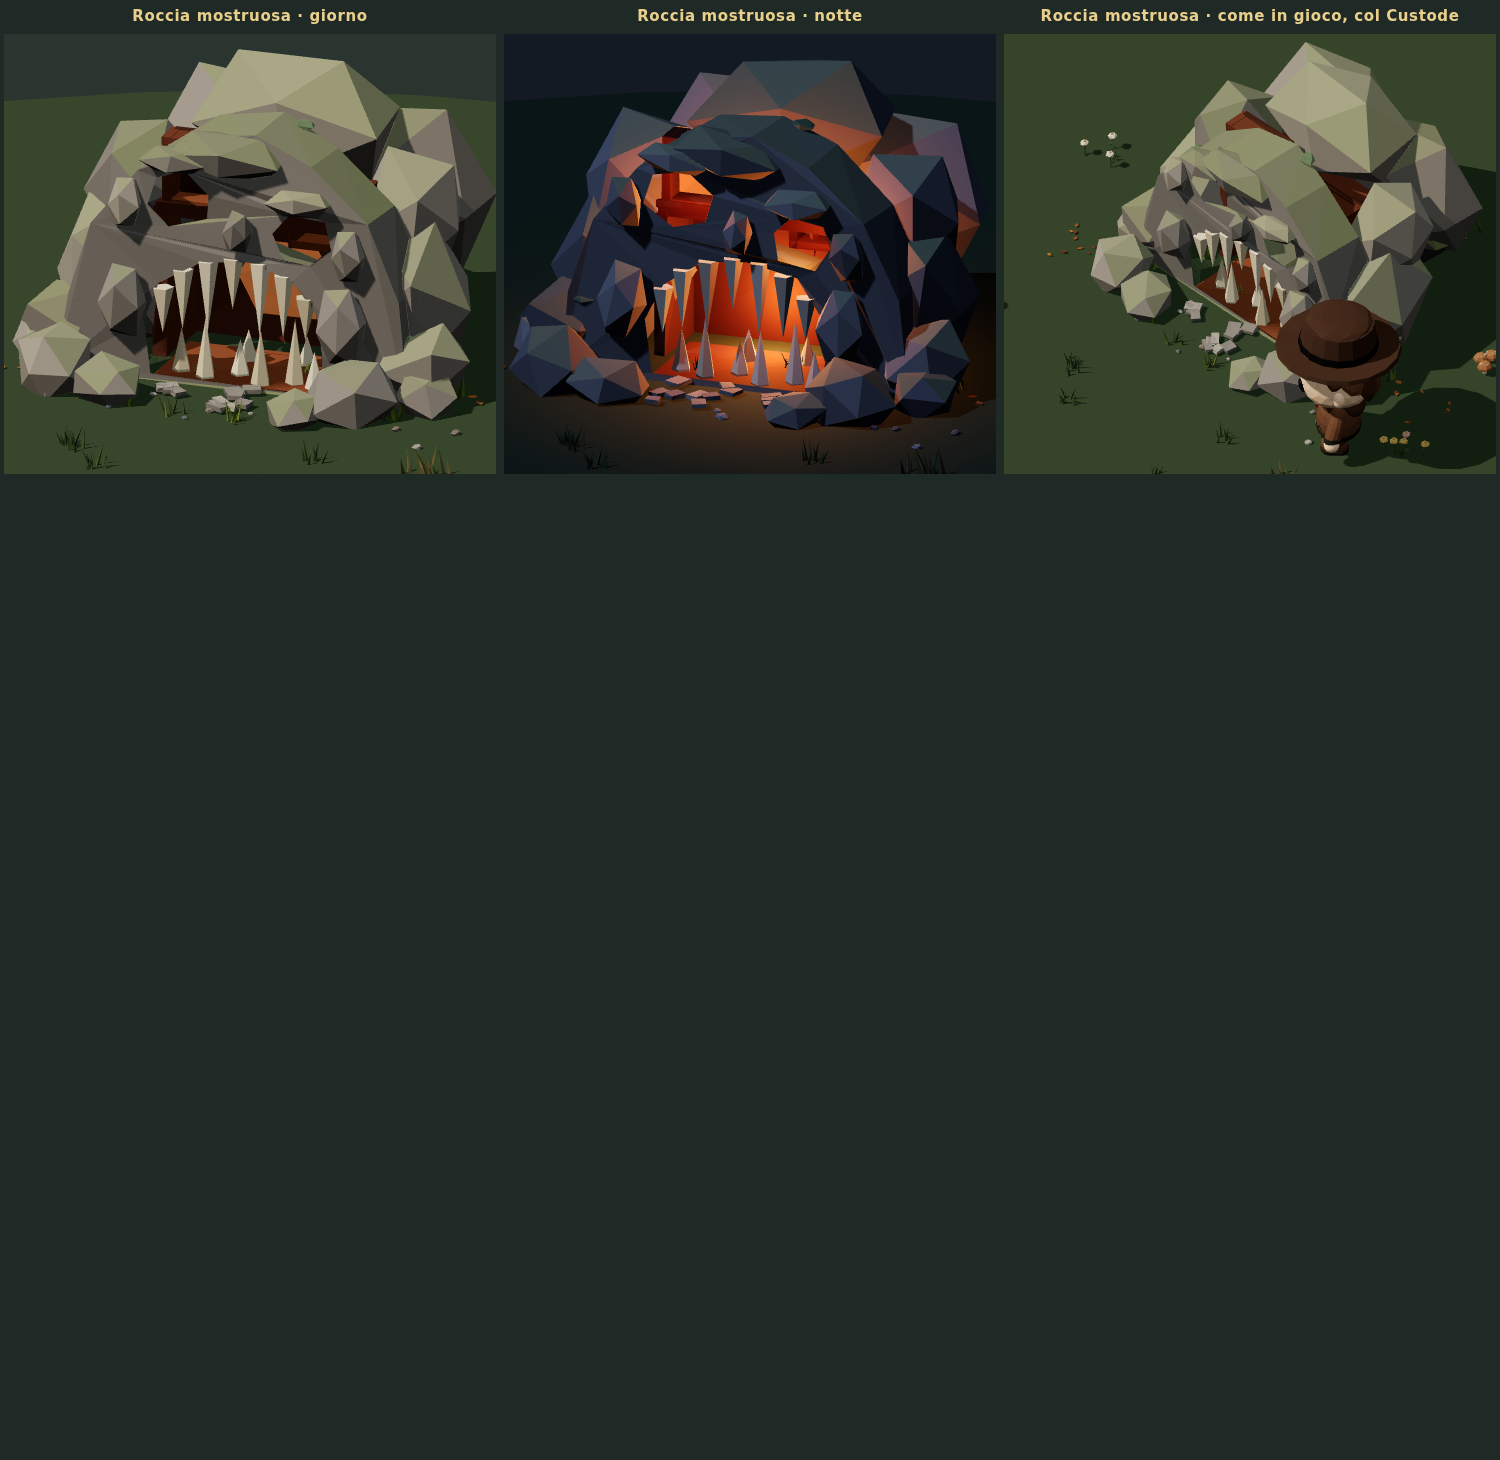
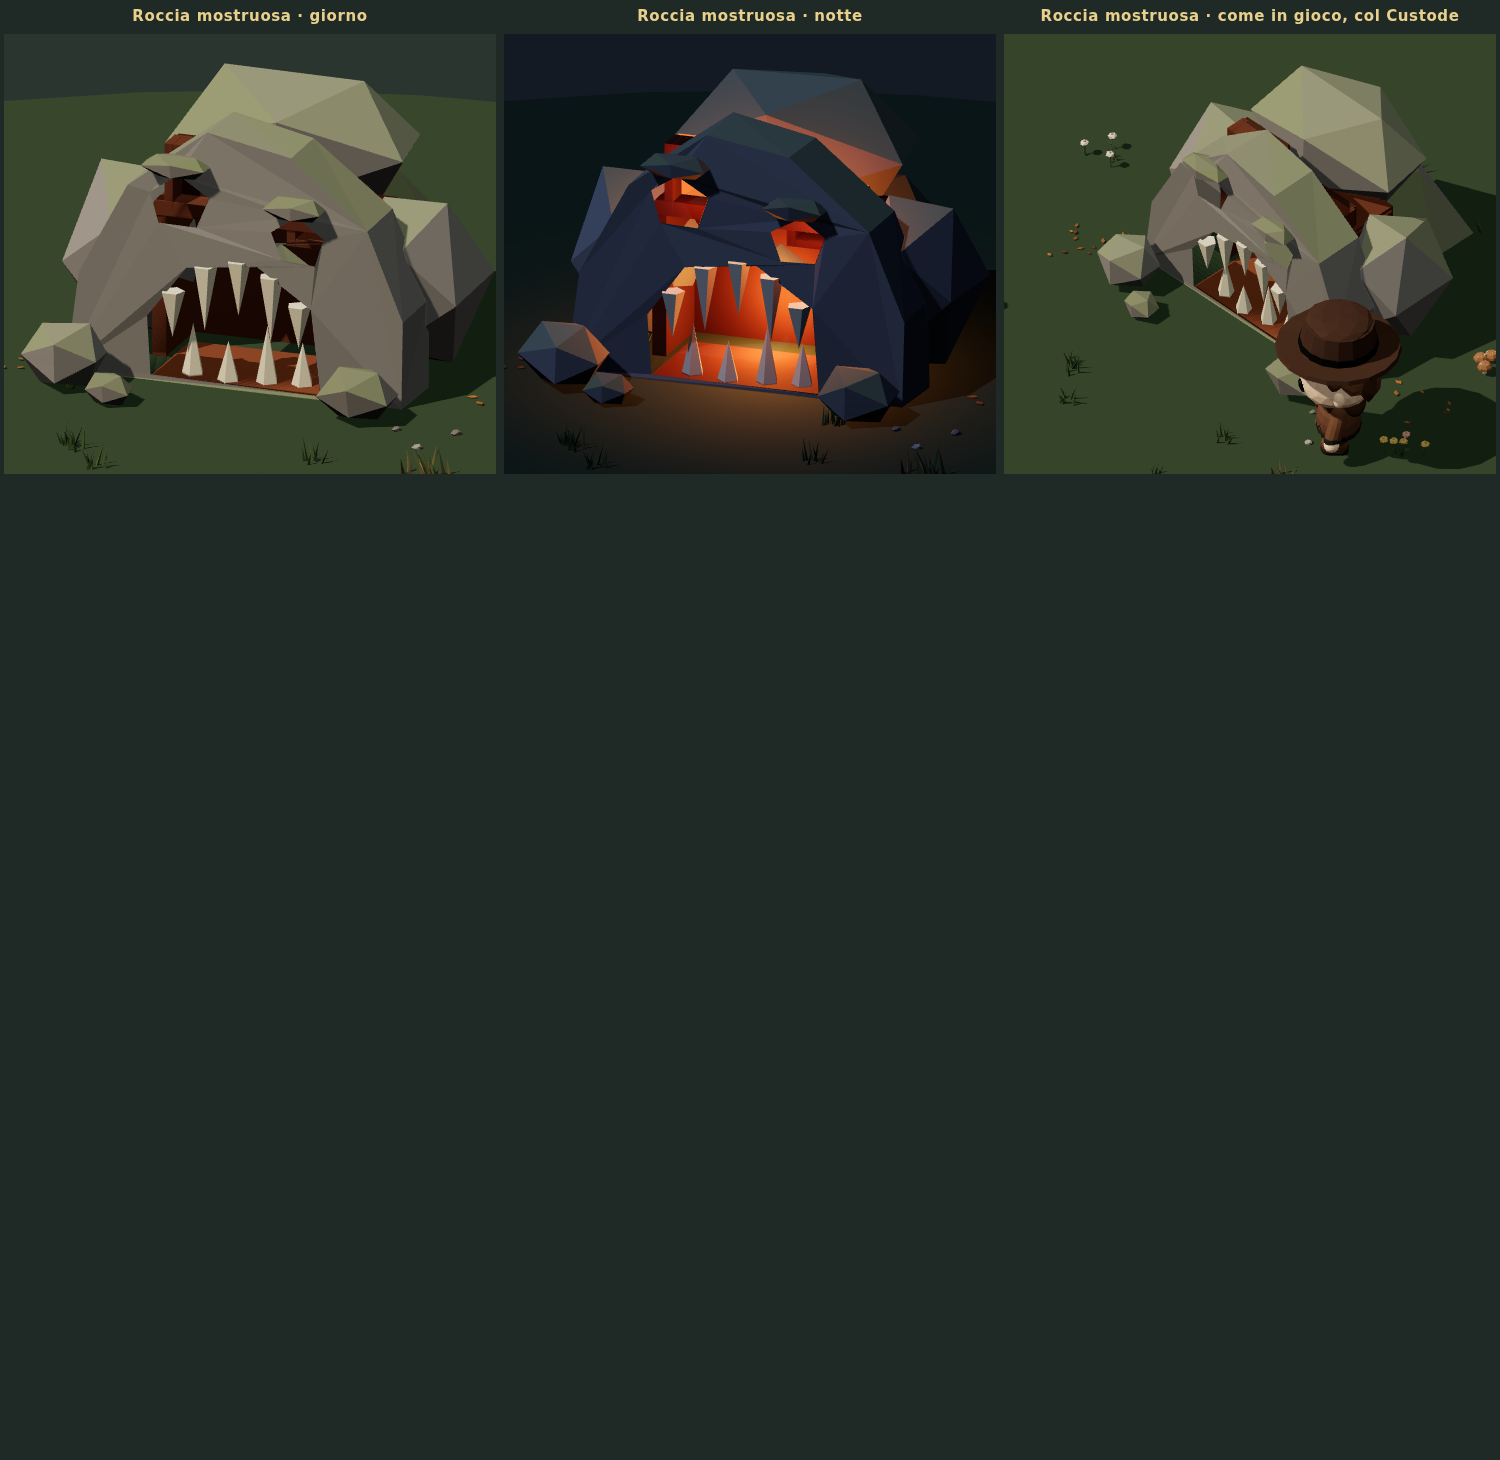
Anteprima: roccia mostruosa semplificata
Pochi pezzi grandi: facciata a cupola con la bocca e le due orbite
scavate, quattro blocchi dietro, due arcate, cinque zanne in alto e
quattro in basso, tre massi davanti, poca erba.

Claude-Session: https://claude.ai/code/session_01U6u5RojYrwYjZd8sSRU7em

Changed region(s): [[0.0, 0.0308, 0.6747, 0.3082], [0.7053, 0.0308, 1.0, 0.2774], [0.92, 0.2466, 0.9813, 0.2774]]

diff --git a/Prototype-3d/src/render/lowpoly/newItems2.ts b/Prototype-3d/src/render/lowpoly/newItems2.ts
@@ -475,91 +475,61 @@ export function witchAppleLP(lit = true): LPModel {
 }
 
 /**
- * Roccia mostruosa (3×2), sul riferimento: una cupola tozza di grossi
- * blocchi di roccia sfaccettati, con due orbite vere (cave, calde dentro,
- * asimmetriche) e una grande bocca-caverna: zanne che scendono dall'alto,
- * stalagmiti che salgono dal pavimento, fondo color brace. Davanti lastre e
- * massi crollati; sopra muschio ed erba. Di notte occhi e gola si accendono.
+ * Roccia mostruosa (3×2), versione semplice: una cupola di pochi grossi
+ * blocchi, due orbite scavate e una bocca-caverna con poche zanne grandi;
+ * tre massi davanti. Di notte occhi e gola si accendono.
  */
 export function fangRockLP(night: boolean): LPModel {
   const lp = new LP(`new2:fang:${night}`);
   const r = lp.rng;
-  const ROCK = ['#8e8a86', '#7f7c7a', '#9a958e', '#85817c'];
-  const DARK = '#5f5b58';
+  const ROCK = '#8a8682', ROCK2 = '#7a7672';
   const mossy = { topTint: '#73843c', topAmount: 0.45 };
-  const rock = () => r.pick(ROCK);
-  const chunk = (x: number, y: number, z: number, sx: number, sy: number, sz: number, yaw = 0, col = rock()) =>
-    lp.push([x, y, z], yaw, r.range(-0.15, 0.15), r.range(-0.15, 0.15)).blob(0, 0, 0, sx, sy, sz, col, { detail: 0, vary: 0.08, jitter: Math.min(sx, sy, sz) * 0.3, ao: 0.25, ...mossy }).pop();
-  const FZ = 0.3; // piano della facciata (fronte del viso)
-  // ── grotta dentro la bocca: pavimento, pareti, fondo e soffitto caldi e scuri
-  const CAVE = night ? '#5a2e18' : '#6a3c26', CAVE2 = night ? '#6e3a1c' : '#80492a';
-  // (la facciata occupa z da -0,2 a 0,3: la grotta comincia dietro, senza facce coincidenti)
-  lp.box(0, 0, -0.1, 1.2, 0.03, 0.75, CAVE2, { jitter: 0.01, vary: 0.12 });
-  lp.box(0, 0, -0.8, 1.45, 1.05, 0.1, CAVE, { jitter: 0.03, vary: 0.15 });
-  for (const sx of [-1, 1]) lp.box(sx * 0.72, 0, -0.5, 0.1, 1.05, 0.6, CAVE, { jitter: 0.03, vary: 0.15 });
-  lp.box(0, 0.98, -0.5, 1.5, 0.1, 0.62, CAVE, { jitter: 0.03, vary: 0.15 });
-  for (let i = 0; i < 6; i++) lp.push([r.range(-0.5, 0.5), 0.98, r.range(-0.7, -0.3)], 0, Math.PI).cyl(0, 0, 0, 0.05, 0, r.range(0.1, 0.22), 4, CAVE2, { jitter: 0 }).pop(); // stalattiti
-  // ── facciata: profilo della cupola con la bocca e le due orbite scavate
+  const chunk = (x: number, y: number, z: number, sx: number, sy: number, sz: number, col = ROCK) =>
+    lp.blob(x, y, z, sx, sy, sz, col, { detail: 0, vary: 0.06, jitter: Math.min(sx, sy, sz) * 0.2, ao: 0.25, ...mossy });
+  const FZ = 0.3;
+  // grotta dietro la bocca (calda) — la facciata occupa z da -0,2 a 0,3
+  const CAVE = night ? '#5a2e18' : '#6a3c26', FLOOR = night ? '#6e3a1c' : '#80492a';
+  lp.box(0, 0, -0.1, 1.2, 0.03, 0.75, FLOOR, { jitter: 0 });
+  lp.box(0, 0, -0.8, 1.45, 1.05, 0.1, CAVE, { jitter: 0 });
+  for (const sx of [-1, 1]) lp.box(sx * 0.72, 0, -0.5, 0.1, 1.05, 0.6, CAVE, { jitter: 0 });
+  lp.box(0, 0.98, -0.5, 1.5, 0.1, 0.62, CAVE, { jitter: 0 });
+  // facciata: profilo a cupola con la bocca e le due orbite
   const F = new THREE.Shape();
-  F.moveTo(-1.25, 0); F.lineTo(-1.2, 0.55); F.lineTo(-1.0, 1.05); F.lineTo(-0.7, 1.45); F.lineTo(-0.3, 1.72); F.lineTo(0.15, 1.78); F.lineTo(0.55, 1.6); F.lineTo(0.95, 1.25); F.lineTo(1.18, 0.75); F.lineTo(1.25, 0); F.closePath();
+  F.moveTo(-1.2, 0); F.lineTo(-1.1, 0.7); F.lineTo(-0.75, 1.35); F.lineTo(-0.2, 1.75); F.lineTo(0.4, 1.65); F.lineTo(0.95, 1.2); F.lineTo(1.2, 0.6); F.lineTo(1.2, 0); F.closePath();
   const mouth = new THREE.Path();
-  mouth.moveTo(-0.6, 0.03); mouth.lineTo(-0.64, 0.4); mouth.lineTo(-0.52, 0.68); mouth.lineTo(-0.25, 0.86); mouth.lineTo(0.1, 0.9); mouth.lineTo(0.42, 0.8); mouth.lineTo(0.6, 0.6); mouth.lineTo(0.64, 0.3); mouth.lineTo(0.6, 0.03); mouth.lineTo(-0.6, 0.03);
+  mouth.moveTo(-0.6, 0.03); mouth.lineTo(-0.62, 0.45); mouth.lineTo(-0.35, 0.82); mouth.lineTo(0.15, 0.88); mouth.lineTo(0.55, 0.62); mouth.lineTo(0.6, 0.03); mouth.lineTo(-0.6, 0.03);
   F.holes.push(mouth);
-  const eyeHole = (cx: number, cy: number, rx: number, ry: number, rot: number) => {
+  const EYES: Array<[number, number, number, number]> = [[-0.4, 1.25, 0.22, 0.19], [0.45, 1.07, 0.2, 0.17]];
+  for (const [cx, cy, rx, ry] of EYES) {
     const p = new THREE.Path();
-    for (let k = 0; k <= 6; k++) { const a = -(k / 6) * Math.PI * 2 + rot; const x = cx + Math.cos(a) * rx, y = cy + Math.sin(a) * ry; if (k) p.lineTo(x, y); else p.moveTo(x, y); }
-    return p;
-  };
-  const EYES: Array<[number, number, number, number, number]> = [[-0.4, 1.28, 0.24, 0.2, 0.3], [0.48, 1.08, 0.22, 0.19, -0.2]];
-  for (const [cx, cy, rx, ry, rot] of EYES) F.holes.push(eyeHole(cx, cy, rx, ry, rot));
-  lp.push([0, 0, FZ - 0.25]).extrude(F, 0.5, rock(), { vary: 0.08, jitter: 0.05, ao: 0.3, curve: 2, ...mossy }).pop();
-  // dentro le orbite: un incavo caldo (di notte brillano)
+    for (let k = 0; k <= 5; k++) { const a = -(k / 5) * Math.PI * 2 + 0.3; const x = cx + Math.cos(a) * rx, y = cy + Math.sin(a) * ry; if (k) p.lineTo(x, y); else p.moveTo(x, y); }
+    F.holes.push(p);
+  }
+  lp.push([0, 0, FZ - 0.25]).extrude(F, 0.5, ROCK, { vary: 0.06, jitter: 0.03, ao: 0.3, curve: 2, ...mossy }).pop();
+  // orbite: incavo caldo dietro (di notte brilla)
   for (const [cx, cy, rx, ry] of EYES) {
-    lp.box(cx, cy - ry * 1.2, -0.42, rx * 2.4, ry * 2.4, 0.06, night ? '#ff8a3a' : '#4a2a1c', night ? { bucket: 'glow', jitter: 0 } : { jitter: 0.01 });
-    for (const sx of [-1, 1]) lp.box(cx + sx * rx * 1.15, cy - ry * 1.2, -0.32, 0.06, ry * 2.4, 0.22, CAVE, { jitter: 0.01 });
-    lp.box(cx, cy - ry * 1.2, -0.32, rx * 2.4, 0.05, 0.22, CAVE2, { jitter: 0.01 });
-    lp.box(cx, cy + ry * 1.2 - 0.05, -0.32, rx * 2.4, 0.05, 0.22, CAVE, { jitter: 0.01 });
+    lp.box(cx, cy - ry * 1.2, -0.4, rx * 2.4, ry * 2.4, 0.06, night ? '#ff8a3a' : '#4a2a1c', night ? { bucket: 'glow', jitter: 0 } : { jitter: 0 });
+    for (const sx of [-1, 1]) lp.box(cx + sx * rx * 1.15, cy - ry * 1.2, -0.3, 0.06, ry * 2.4, 0.2, CAVE, { jitter: 0 });
+    lp.box(cx, cy - ry * 1.2, -0.3, rx * 2.4, 0.05, 0.2, CAVE, { jitter: 0 });
+    lp.box(cx, cy + ry * 1.2 - 0.05, -0.3, rx * 2.4, 0.05, 0.2, CAVE, { jitter: 0 });
+    chunk(cx, cy + ry + 0.08, FZ + 0.05, rx * 1.2, 0.09, 0.14, ROCK2); // arcata
   }
-  // ── volume dietro e ai lati: grossi blocchi sfaccettati (la cupola)
-  chunk(0.0, 1.5, -0.95, 0.8, 0.5, 0.5);
-  chunk(-0.4, 1.0, -1.3, 0.85, 0.75, 0.42);
-  chunk(0.5, 0.9, -1.3, 0.8, 0.7, 0.42);
-  chunk(0.0, 0.45, -1.35, 1.15, 0.5, 0.35, 0, DARK);
-  for (const sx of [-1, 1]) chunk(sx * 0.95, 1.05, -0.6, 0.4, 0.5, 0.5, sx * 0.4);
-  for (const sx of [-1, 1]) {
-    chunk(sx * 1.05, 0.55, -0.35, 0.42, 0.6, 0.6, sx * 0.3);
-    chunk(sx * 1.25, 0.25, 0.05, 0.35, 0.32, 0.4, sx * 0.5);
-  }
-  // ── rilievi sulla facciata: arcate sopra le orbite, setto nasale, zigomi, fronte
-  for (const [cx, cy, rx, ry] of EYES) {
-    chunk(cx, cy + ry + 0.09, FZ + 0.06, rx * 1.15, 0.1, 0.16, 0);
-    chunk(cx + (cx < 0 ? -1 : 1) * (rx + 0.12), cy - 0.05, FZ + 0.04, 0.12, 0.2, 0.14);
-  }
-  chunk(0.05, 1.12, FZ + 0.07, 0.1, 0.16, 0.12); // setto tra le orbite
-  chunk(-0.05, 1.62, FZ - 0.02, 0.45, 0.16, 0.22); // fronte
-  for (const sx of [-1, 1]) chunk(sx * 0.78, 0.55, FZ + 0.06, 0.18, 0.3, 0.16, sx * 0.2); // guance ai lati della bocca
-  // ── zanne: dall'arco della bocca in giù, e stalagmiti dal pavimento
-  const TOOTH = ['#d8cdb4', '#cbbfa4', '#e2d8c2'];
-  const arch: Array<[number, number]> = [[-0.52, 0.62], [-0.38, 0.76], [-0.2, 0.84], [-0.02, 0.88], [0.17, 0.87], [0.34, 0.8], [0.5, 0.66]];
-  arch.forEach(([x, y], k) => {
-    const h = [0.32, 0.42, 0.5, 0.36, 0.52, 0.44, 0.3][k];
-    lp.push([x, y + 0.03, FZ - 0.02], 0, Math.PI).cyl(0, 0, 0, 0.075, 0.0, h, 5, r.pick(TOOTH), { jitter: 0.004, vary: 0.06 }).pop();
-  });
-  for (const [x, z, h] of [[-0.45, 0.1, 0.3], [-0.25, 0.18, 0.42], [-0.05, 0.05, 0.25], [0.15, 0.2, 0.38], [0.36, 0.1, 0.45], [0.52, 0.16, 0.26], [-0.1, -0.25, 0.22], [0.3, -0.3, 0.2]] as const)
-    lp.cyl(x, 0.02, z, 0.07, 0.0, h, 5, r.pick(TOOTH), { jitter: 0.004, vary: 0.06 });
-  // ── davanti: lastre e massi crollati, ciottoli all'ingresso, sassi sparsi
-  for (const [x, z, sx, sy, sz] of [[-1.15, 0.65, 0.35, 0.28, 0.3], [-0.75, 0.75, 0.32, 0.18, 0.25], [0.95, 0.6, 0.33, 0.25, 0.28], [0.62, 0.82, 0.24, 0.14, 0.2], [1.35, 0.3, 0.22, 0.2, 0.22], [-1.4, 0.2, 0.2, 0.22, 0.2]] as const) chunk(x, sy * 0.6, z, sx, sy, sz, r.range(0, 3));
-  for (let i = 0; i < 12; i++) lp.push([r.range(-0.45, 0.45), 0.02, r.range(0.35, 0.8)], r.range(0, 3)).box(0, 0, 0, r.range(0.08, 0.16), 0.03, r.range(0.06, 0.12), r.pick(ROCK), { jitter: 0.01, vary: 0.1 }).pop();
-  pebbles(lp, -1.3, 0.5, 1.3, 1.0, 8);
-  // ── muschio ed erba sulle cenge e sulla cupola
-  for (const [x, y, z] of [[-0.9, 1.15, -0.1], [0.3, 1.72, -0.2], [0.95, 0.95, -0.1], [-1.1, 0.5, 0.25], [1.15, 0.45, 0.2], [-0.3, 1.55, 0.1]] as const) {
-    moss(lp, x, y, z, 0.1);
-    for (let k = 0; k < 2; k++) grassTuft(lp, x + r.range(-0.08, 0.08), z + r.range(-0.08, 0.08), 0.9, ['#7a8a3a', '#6a7a34', '#8a9a44']);
-  }
-  for (let i = 0; i < 10; i++) { const a = r.range(0, 6.28); grassTuft(lp, Math.cos(a) * 1.45, Math.sin(a) * 0.95, 1.1, ['#6a7a34', '#7a8a3a', '#55603a']); }
-  // luce calda in fondo alla gola (sempre un po', di notte di più) e dentro le orbite
+  // volume dietro: quattro grossi blocchi
+  chunk(0.0, 1.35, -0.95, 0.95, 0.55, 0.55);
+  chunk(0.0, 0.55, -1.3, 1.2, 0.6, 0.4, ROCK2);
+  for (const sx of [-1, 1]) chunk(sx * 1.0, 0.6, -0.55, 0.45, 0.65, 0.6);
+  // zanne grandi: cinque dall'arco, quattro dal pavimento
+  const TOOTH = '#d8cdb4';
+  for (const [x, y, h] of [[-0.45, 0.6, 0.32], [-0.22, 0.8, 0.45], [0.02, 0.86, 0.38], [0.25, 0.78, 0.46], [0.45, 0.6, 0.3]] as const)
+    lp.push([x, y + 0.03, FZ - 0.02], 0, Math.PI).cyl(0, 0, 0, 0.085, 0.0, h, 5, TOOTH, { jitter: 0, vary: 0.05 }).pop();
+  for (const [x, z, h] of [[-0.35, 0.15, 0.36], [-0.08, 0.2, 0.28], [0.18, 0.15, 0.4], [0.42, 0.12, 0.3]] as const)
+    lp.cyl(x, 0.02, z, 0.08, 0.0, h, 5, TOOTH, { jitter: 0, vary: 0.05 });
+  // tre massi davanti e un po' d'erba
+  chunk(-1.1, 0.22, 0.6, 0.32, 0.25, 0.28);
+  chunk(1.0, 0.18, 0.62, 0.28, 0.2, 0.25, ROCK2);
+  chunk(-0.7, 0.1, 0.85, 0.18, 0.12, 0.15, ROCK2);
+  for (let i = 0; i < 6; i++) { const a = r.range(0, 6.28); grassTuft(lp, Math.cos(a) * 1.35, Math.sin(a) * 0.85 + 0.1, 1.1, ['#6a7a34', '#55603a']); }
   lp.light(0, 0.35, -0.45, '#ff9a4a', night ? 0.9 : 0.6, 3, 0.35, night ? 0.8 : 0.3);
-  if (!night) lp.blob(0, 0.45, -0.72, 0.4, 0.3, 0.03, '#a0582a', { bucket: 'glow', jitter: 0 }); // fondo che riflette un bagliore caldo
   if (night) for (const [cx, cy] of EYES) lp.light(cx, cy, FZ - 0.2, '#ff8a3a', 0.35, 2, 0.3, 0.5);
   return lp.build();
 }
